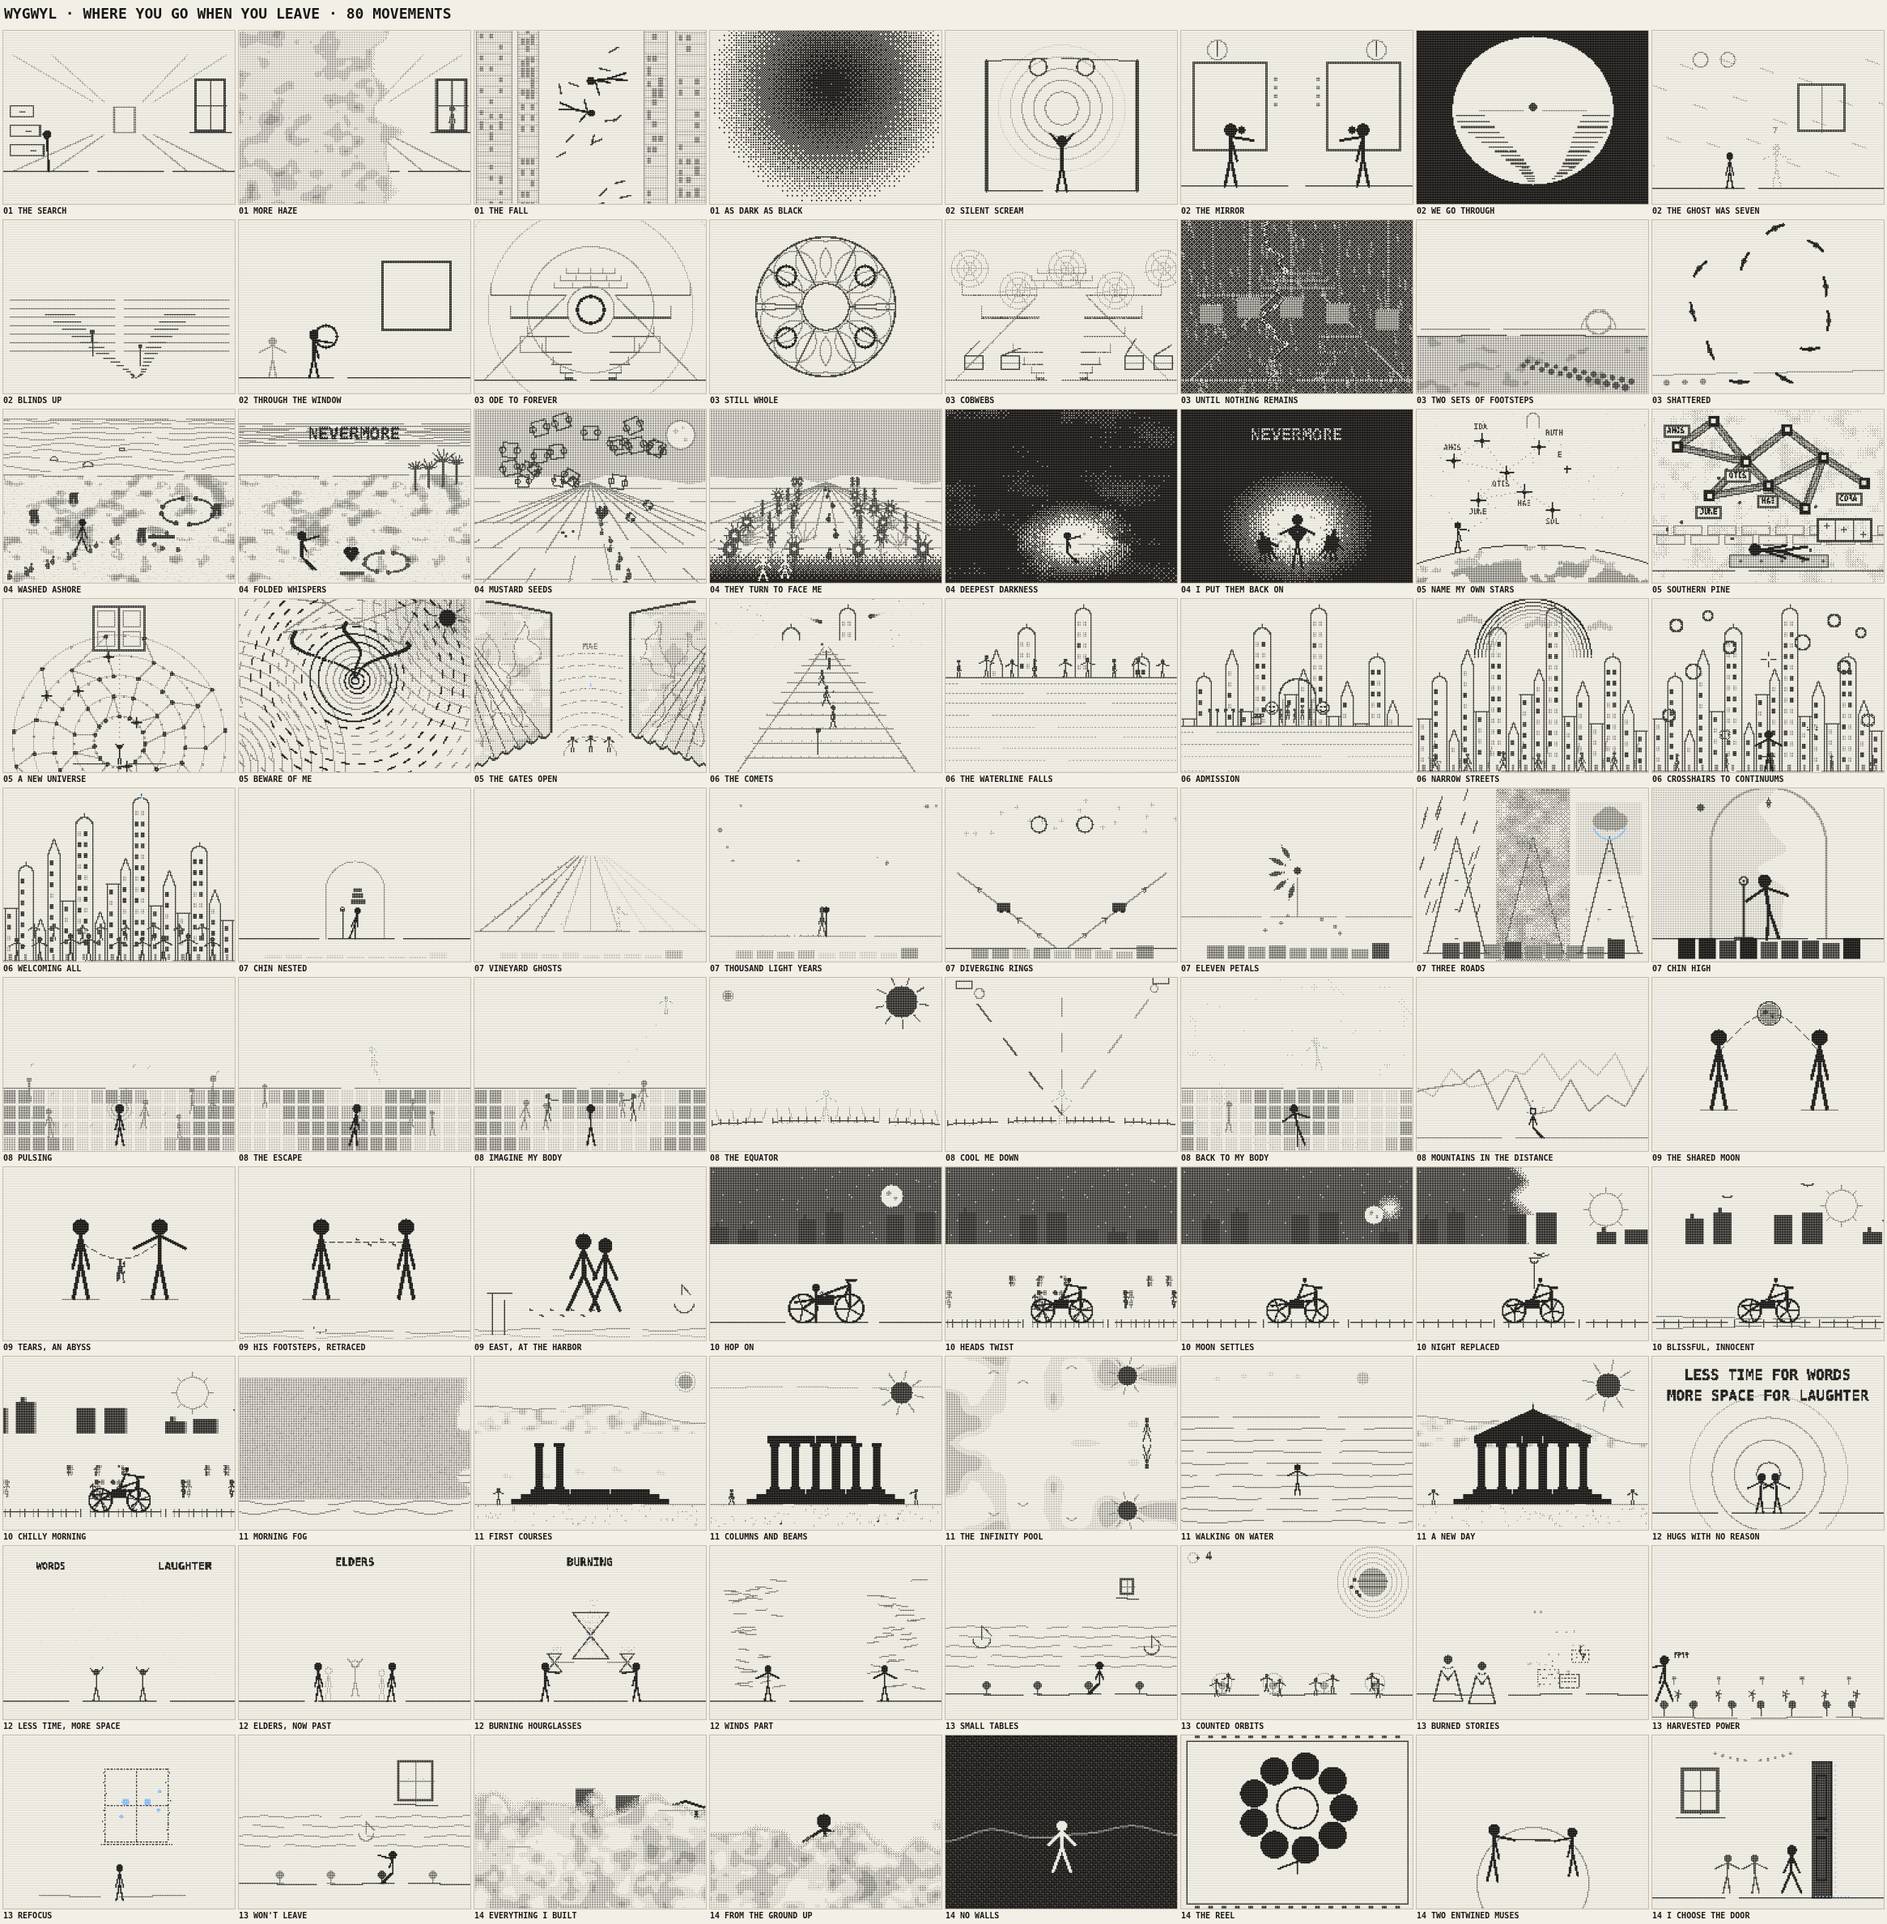
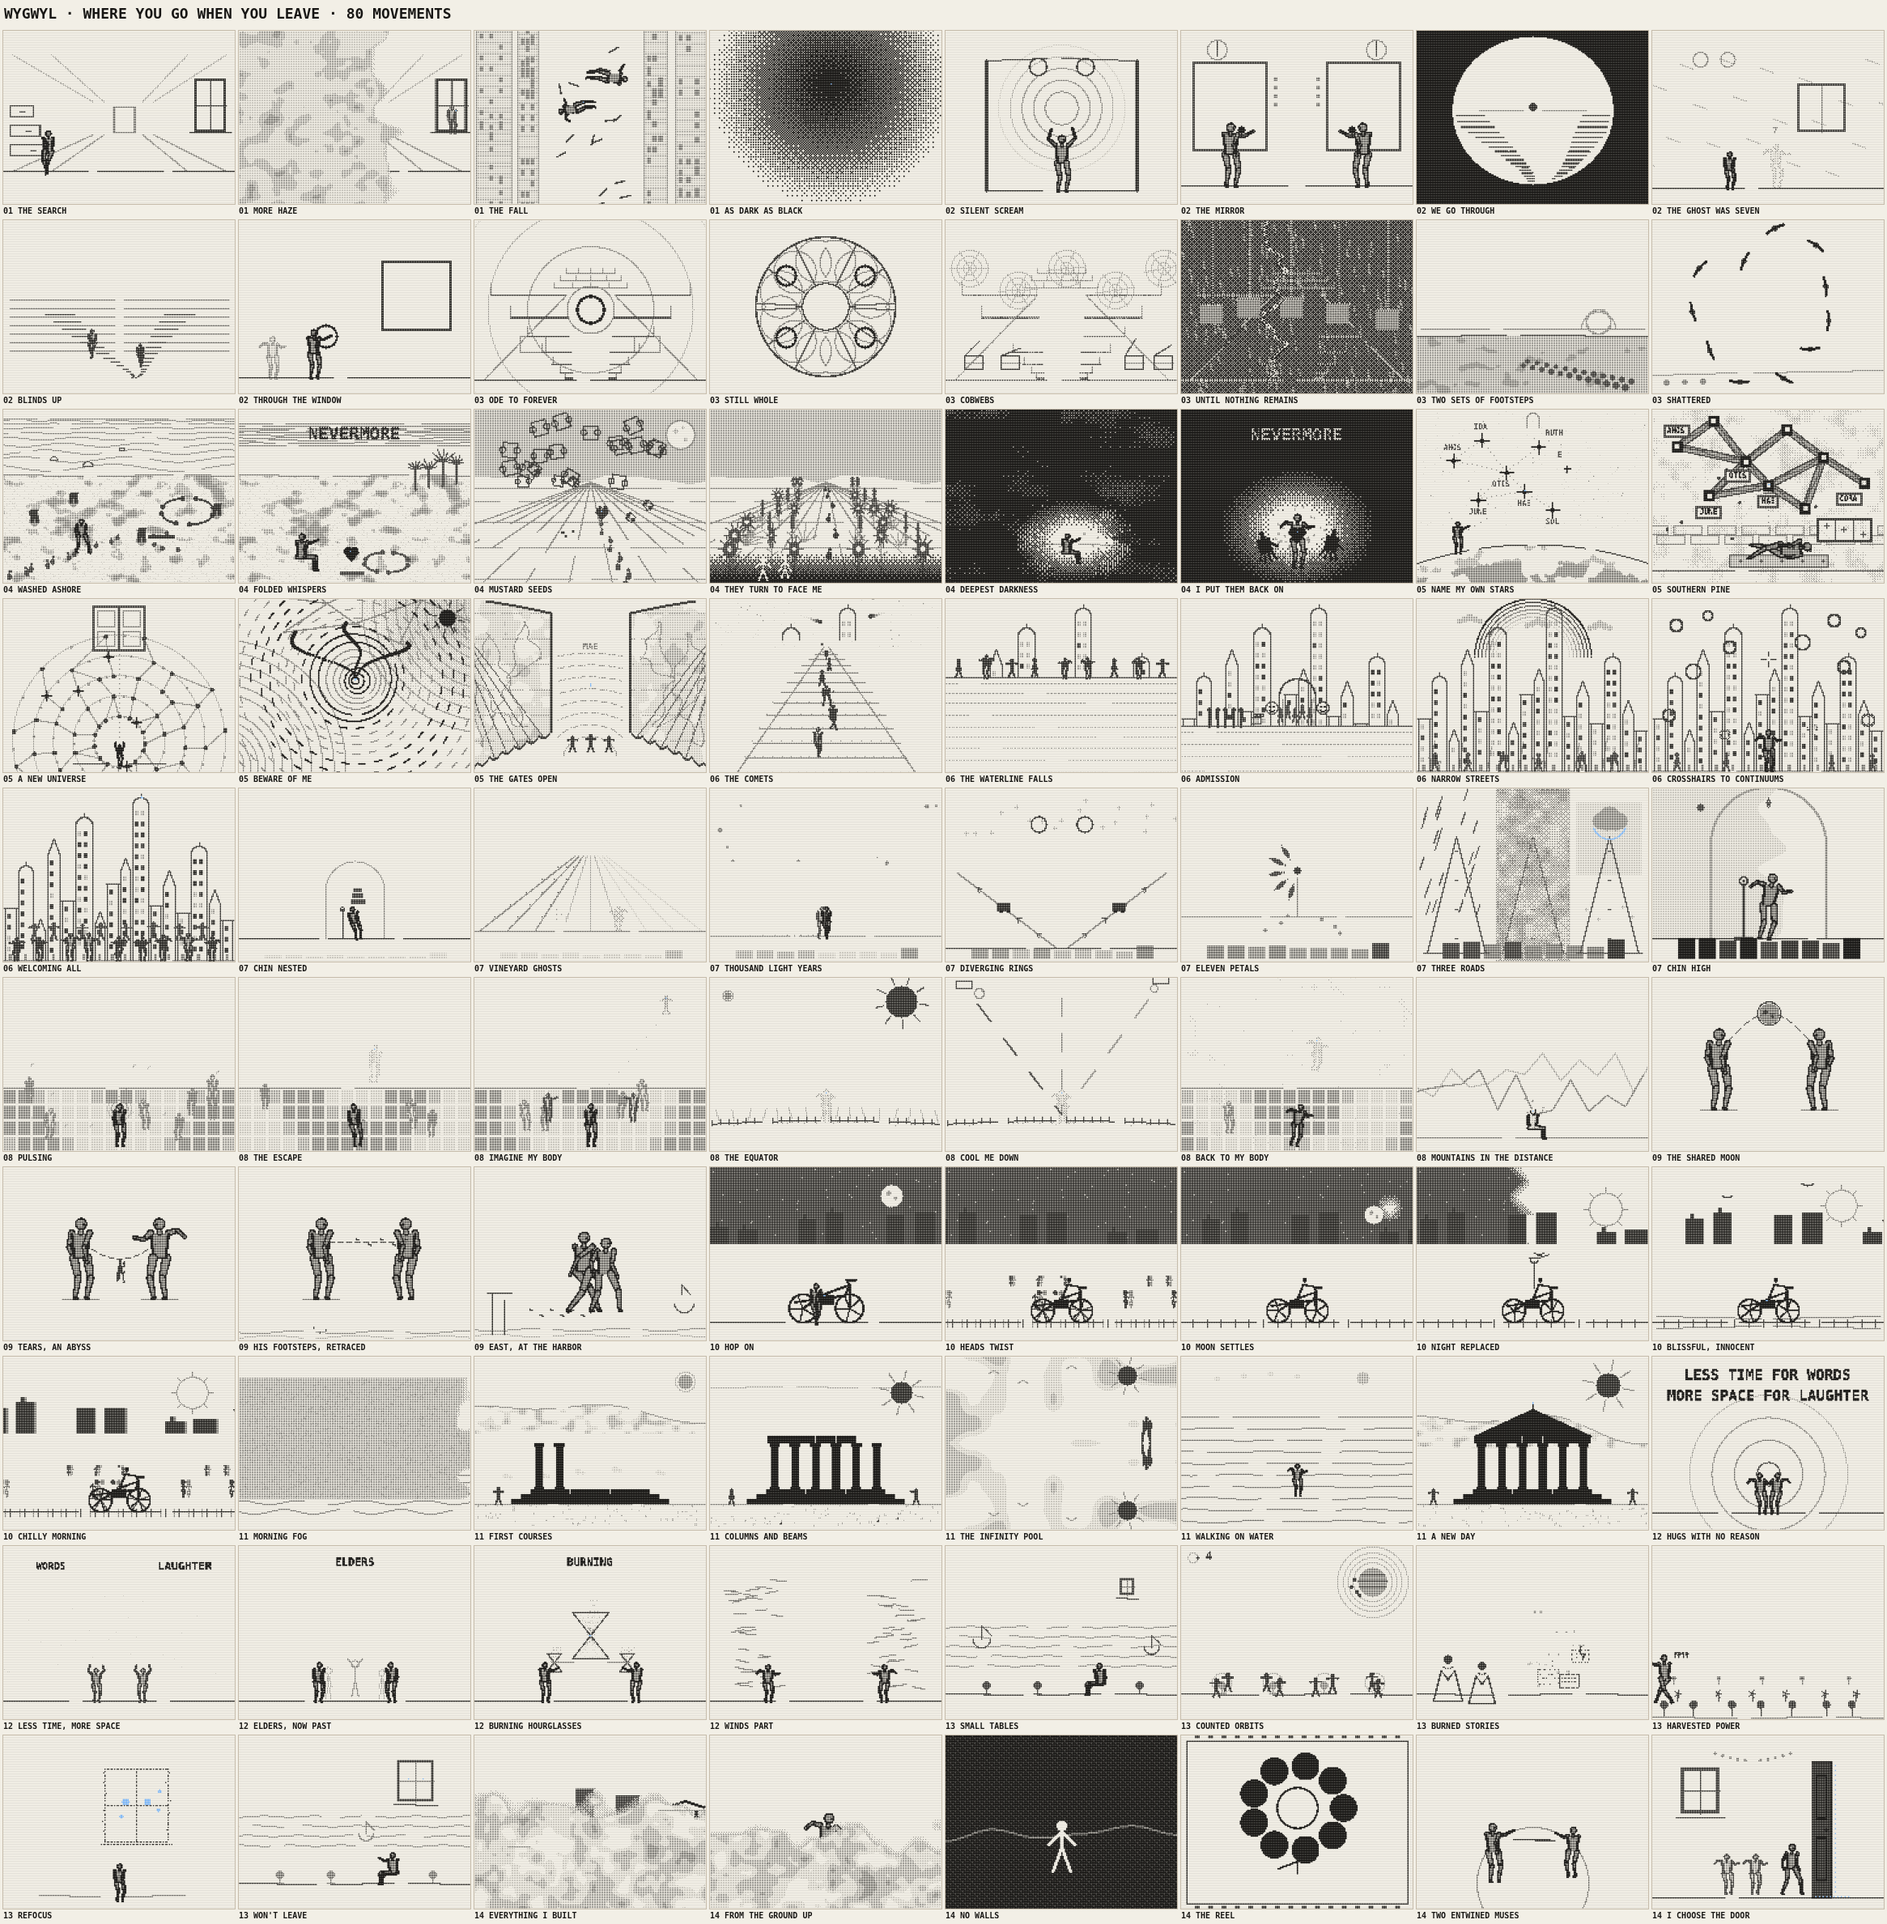
Contact sheet with the new bodies
Eighty movements, and every figure in them is now volumetric. The rig change
touched no film and improved all of them.

Claude-Session: https://claude.ai/code/session_01WvCejs2G8uJ2drGCkg9Zzp

diff --git a/wygwyl/_test/harness.html b/wygwyl/_test/harness.html
@@ -28,6 +28,15 @@ window.__t = {
     ingest.sample(field, opts);
     post.draw(field);
   },
+  stats() {
+    let mn = 99, mx = -99, sum = 0, hist = new Array(8).fill(0);
+    for (let i = 0; i < field.length; i++) {
+      const v = field[i];
+      if (v < mn) mn = v; if (v > mx) mx = v; sum += v;
+      hist[Math.max(0, Math.min(7, Math.round(v)))]++;
+    }
+    return { min: mn, max: mx, mean: sum / field.length, hist };
+  },
   renderBlend(opts, drawingT, mode, t, extra) {
     ingest.sample(field, opts);
     const bufB = R.renderField(drawingT);
@@ -40,6 +49,15 @@ window.__t = {
     post.draw(out);
   },
   renderDrawing(drawingT) { post.draw(R.renderField(drawingT)); },
+  showRaw(opts) {
+    // debug: draw the ingest module's OWN 192x144 sample canvas, unprocessed
+    // by tone/levels/dither, scaled up — to sanity-check the crop and the
+    // channel/value pipeline against what the eye expects.
+    ingest.sample(field, opts || {});
+    const ctx = canvas.getContext("2d");
+    ctx.imageSmoothingEnabled = false;
+    ctx.drawImage(ingest.canvas, 0, 0, canvas.width, canvas.height);
+  },
   total: () => R.total,
   starts: () => R.starts,
   labels: () => R.movements.map(m => m.label),

diff --git a/wygwyl/_test/dbg.html b/wygwyl/_test/dbg.html
@@ -1,0 +1,19 @@
+<!doctype html>
+<meta charset="utf-8">
+<script type="module">
+import { makeIngest } from "../ingest.mjs";
+const img = document.createElement("img");
+document.body.appendChild(img);
+await new Promise((res) => { img.onload = res; img.src = "frames/f24.png"; });
+const ingest = makeIngest(img);
+const F = new Float32Array(192*144);
+const dbg = {};
+ingest.sample(F, { channel:"luma", black:0.005, white:0.55, tone:"invert", dither:"bayer" }, dbg);
+function hist(arr, n=10) {
+  let mn=99,mx=-99; for (const v of arr) { if(v<mn)mn=v; if(v>mx)mx=v; }
+  const h = new Array(n).fill(0);
+  for (const v of arr) h[Math.min(n-1,Math.floor((v-mn)/(mx-mn+1e-9)*n))]++;
+  return {mn,mx,h};
+}
+window.__r = { ch: hist(dbg.chGrid), val: hist(dbg.valGrid), F: hist(F,8) };
+</script>
